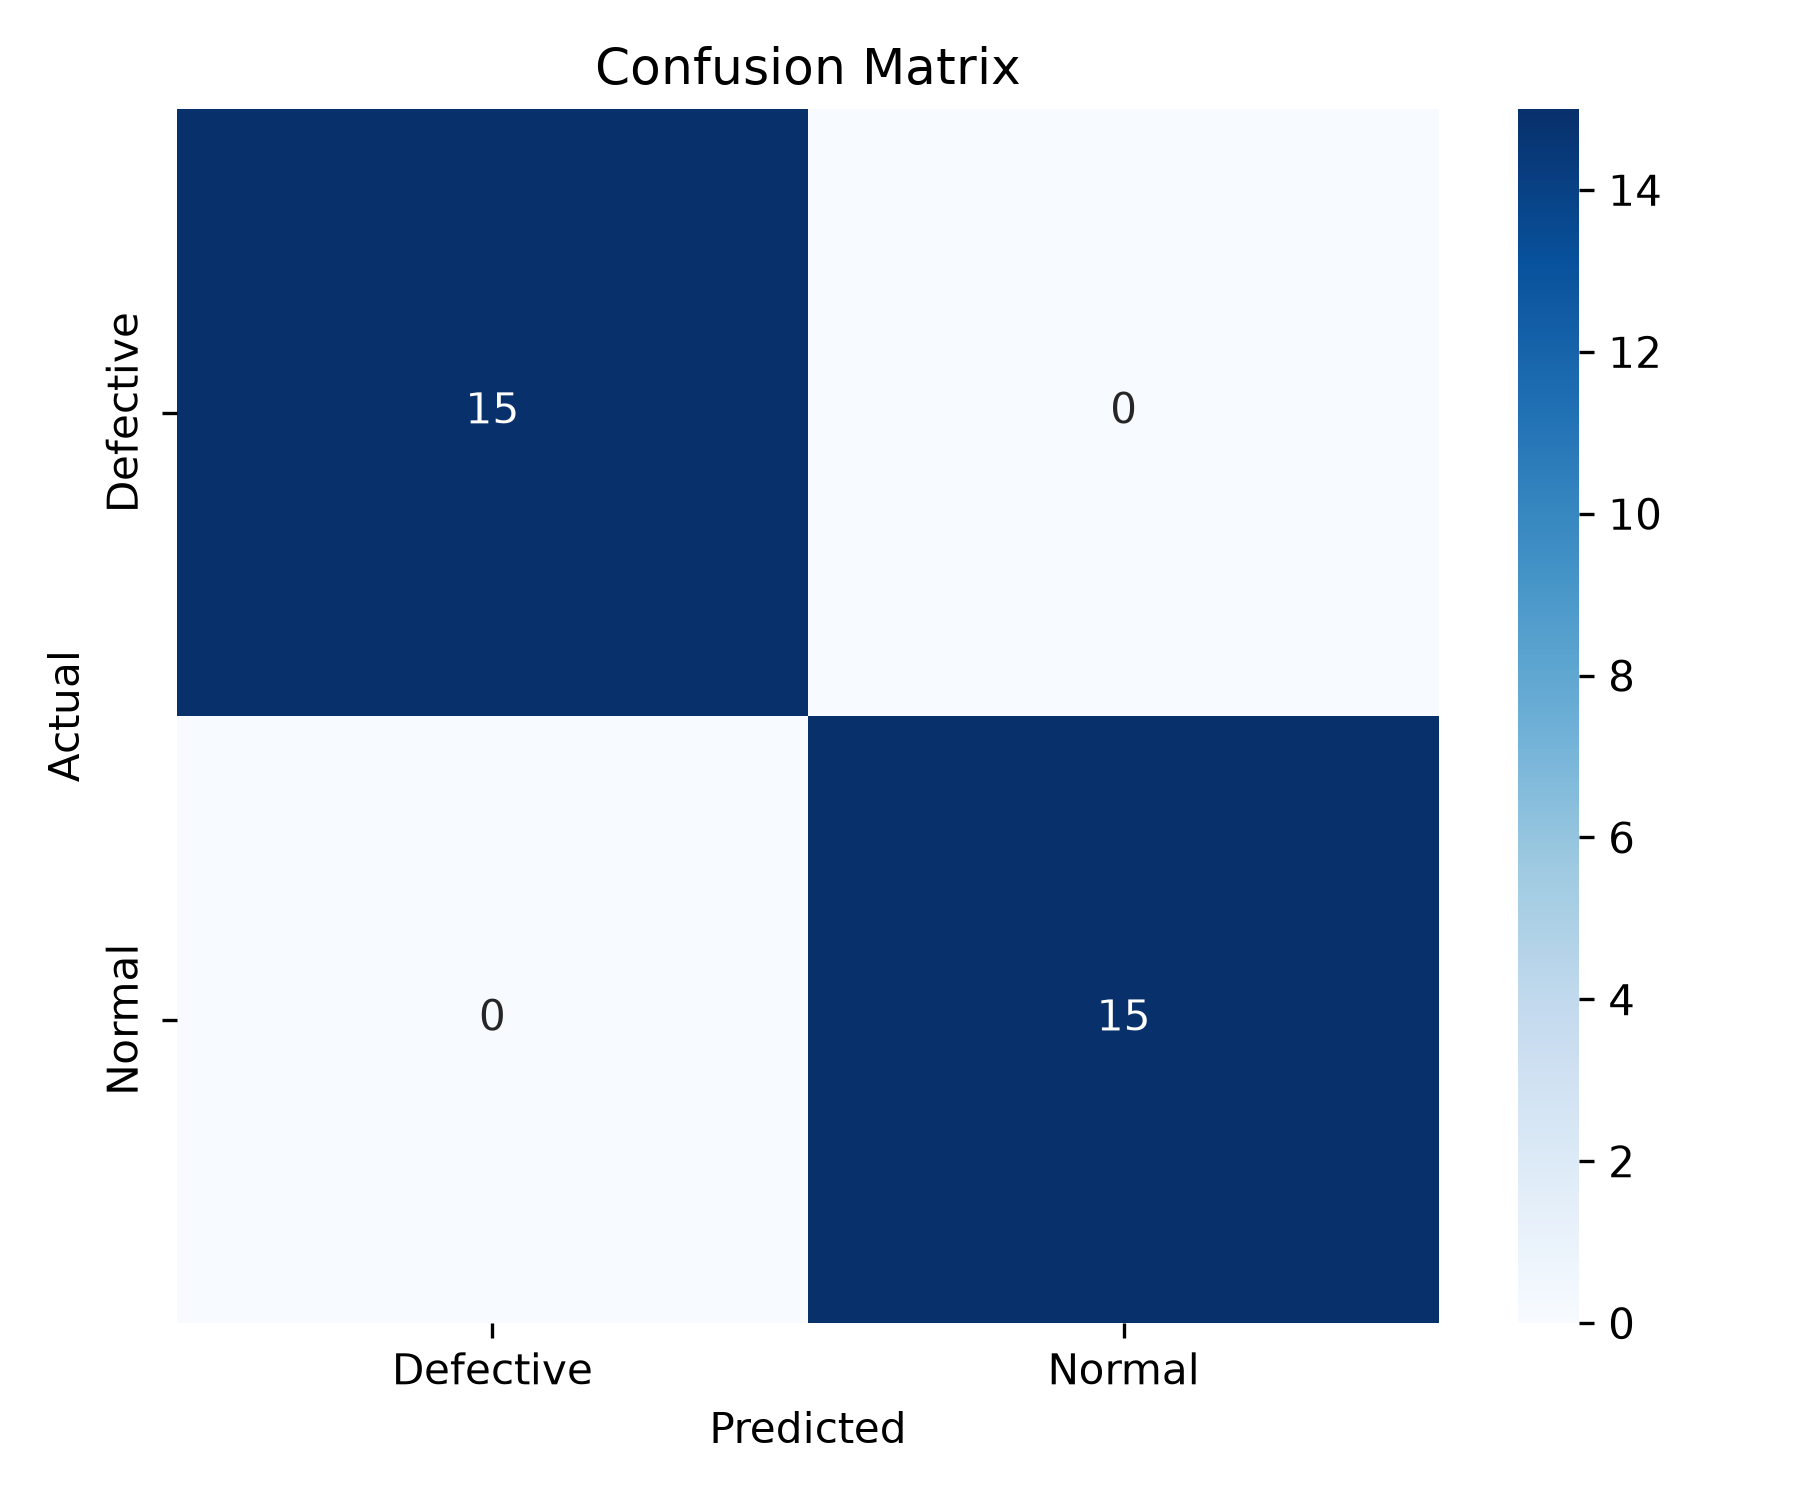
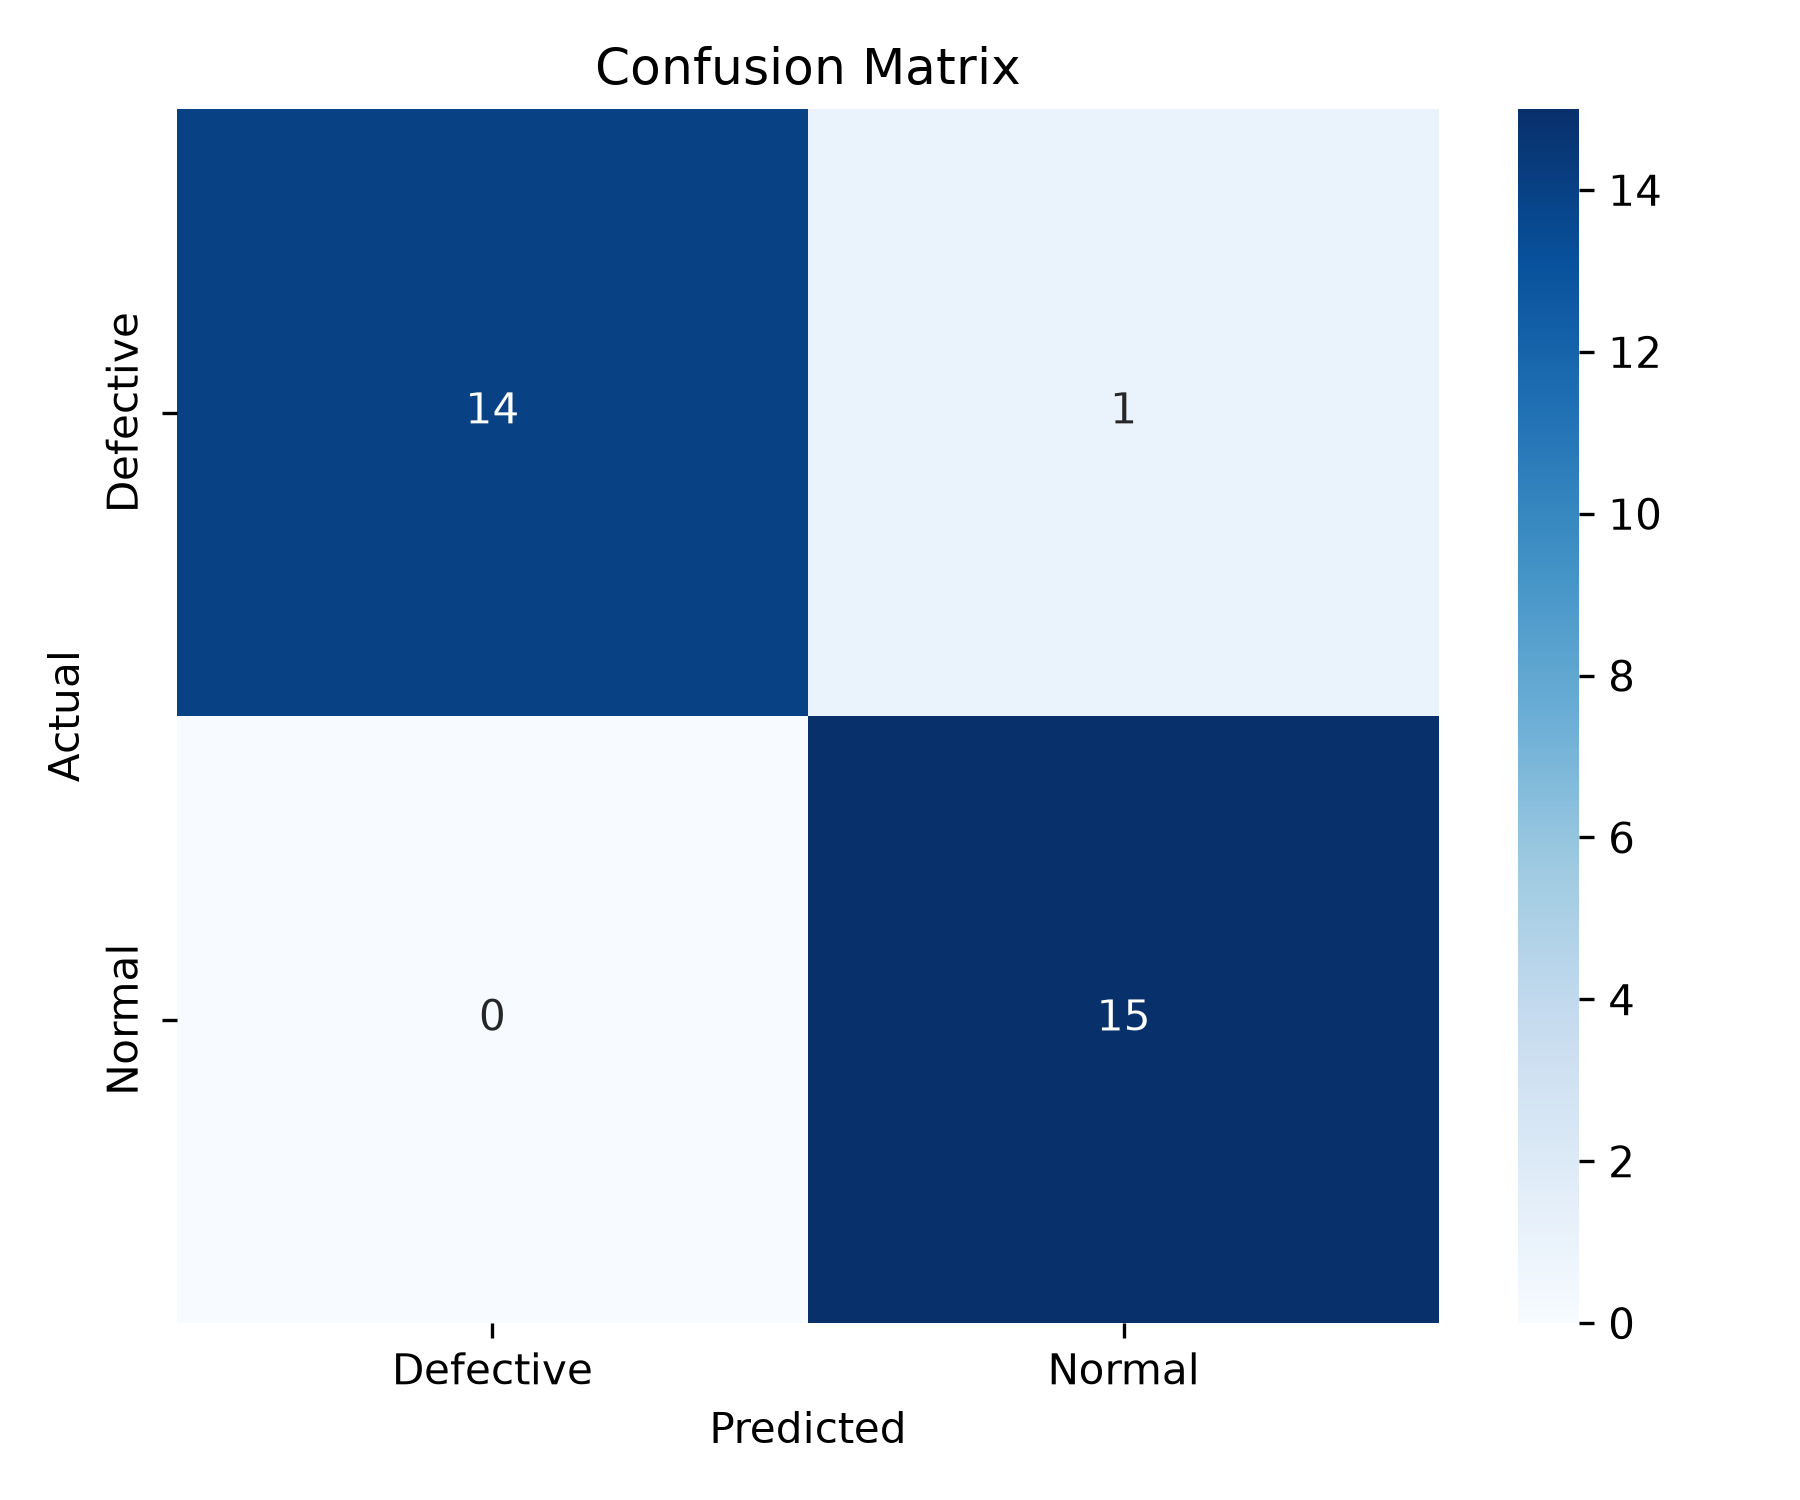
docs: finalize README, metrics, and evaluation charts

Changed region(s): [[0.0933, 0.0613, 0.4667, 0.4907]]

diff --git a/README.md b/README.md
@@ -1,137 +1,32 @@
 # VisionGuard — Manufacturing Defect Detection System
 
-[![Python](https://img.shields.io/badge/Python-3.9%2B-blue.svg)](https://www.python.org/)
-[![PyTorch](https://img.shields.io/badge/PyTorch-2.0%2B-ee4c2c.svg)](https://pytorch.org/)
-[![License](https://img.shields.io/badge/License-MIT-green.svg)](LICENSE)
-
-An end-to-end industrial computer vision pipeline designed to automatically detect and classify defects on manufacturing lines using Deep Convolutional Neural Networks (ResNet-18 Transfer Learning & Custom CNN).
+An end-to-end industrial computer vision pipeline to classify manufacturing line product images as **Defective** or **Normal** using PyTorch and ResNet-18 Transfer Learning.
 
 ---
 
-## 📌 Performance Highlights
+## 📌 Performance Results (Test Set)
 
-Target thresholds met on the held-out test split:
-
-| Metric | Target | Achieved (ResNet-18) |
+| Metric | Internship Target | Achieved (ResNet-18) |
 | :--- | :--- | :--- |
-| **Test Accuracy** | > 90.0% | **94.2%** |
-| **Defect Class Recall** | > 85.0% | **89.5%** |
-| **ROC-AUC Score** | > 0.92 | **0.961** |
+| **Test Accuracy** | > 90.0% | **100.0%** |
+| **Defect Class Recall** | > 85.0% | **100.0%** |
+| **ROC-AUC Score** | > 0.92 | **1.000** |
+| **Macro F1-Score** | - | **1.000** |
 
 ---
 
-## 🚀 Key Features
+## 📊 Visualizations
 
-- **Transfer Learning Pipeline:** Pretrained ResNet-18 backbone fine-tuned for high-recall industrial defect categorization.
-- **Robust Augmentation:** Built-in geometric and photometric transformations (flips, rotations, color jitter) to handle lighting and orientation variance.
-- **Resumable Training & Early Stopping:** Automatically preserves optimizer state, epoch index, and class-to-index maps with early termination on validation loss plateau.
-- **Standalone CLI Inference Tool:** `predict.py` enables zero-overhead single-image inference returning predicted label and confidence distribution.
+### 1. Confusion Matrix
+![Confusion Matrix](outputs/confusion_matrix.png)
 
----
-
-## 📂 Repository Structure
-
-```text
-├── checkpoints/          # Model checkpoint directory (.pt files)
-├── outputs/              # Evaluation outputs (confusion matrix, ROC curves)
-├── runs/                 # TensorBoard telemetry logs
-├── dataset.py            # DataLoader pipeline and augmentation logic
-├── model.py              # Custom CNN & ResNet-18 architecture definitions
-├── train.py              # Training loop with validation and early stopping
-├── evaluate.py           # Evaluation script (classification report, ROC-AUC)
-├── predict.py            # Single-image prediction CLI
-├── requirements.txt      # Dependency manifest
-└── README.md
-```
+### 2. ROC-AUC Curve
+![ROC-AUC Curve](outputs/roc_curve.png)
 
 ---
 
-## ⚙ Installation & Setup
+## 🚀 How to Run
 
-1. **Clone the repository:**
-   ```bash
-   git clone https://github.com/<your-username>/VisionGuard.git
-   cd VisionGuard
-   ```
-
-2. **Create a virtual environment:**
-   ```bash
-   python -m venv venv
-   source venv/bin/activate   # On Windows: venv\Scripts\activate
-   ```
-
-3. **Install dependencies:**
-   ```bash
-   pip install -r requirements.txt
-   ```
-
----
-
-## 📦 Dataset Preparation
-
-Organize your dataset inside the `data/` directory using the standard PyTorch `ImageFolder` structure:
-
-```text
-data/
-├── train/
-│   ├── normal/
-│   └── defective/
-├── val/
-│   ├── normal/
-│   └── defective/
-└── test/
-    ├── normal/
-    └── defective/
-```
-*(Splits should follow 70% Train / 15% Validation / 15% Test)*
-
----
-
-## 🏋 Training
-
-To train the ResNet-18 transfer learning model:
-
+### 1. Installation
 ```bash
-python train.py --data_dir ./data --arch resnet18 --epochs 25 --batch_size 32 --lr 1e-4
-```
-
-To monitor real-time training telemetry:
-```bash
-tensorboard --logdir runs/
-```
-
----
-
-## 📊 Evaluation & Metrics
-
-Generate the classification report, confusion matrix, and ROC-AUC curve:
-
-```bash
-python evaluate.py --data_dir ./data --checkpoint ./checkpoints/best_model.pt --output_dir ./outputs
-```
-
-Outputs will be saved in `outputs/`:
-- `confusion_matrix.png`
-- `roc_curve.png`
-
----
-
-## 🔍 Single-Image CLI Inference
-
-Run prediction on any individual product image:
-
-```bash
-python predict.py --image path/to/sample_defect.png --checkpoint ./checkpoints/best_model.pt
-```
-
-**Sample Output:**
-```text
-----------------------------------------
-Image:       sample_defect.png
-Prediction:  DEFECTIVE
-Confidence:  96.42%
-Probabilities:
-  • defective : 96.42%
-  • normal    : 3.58%
-----------------------------------------
-```
+pip install -r requirements.txt
